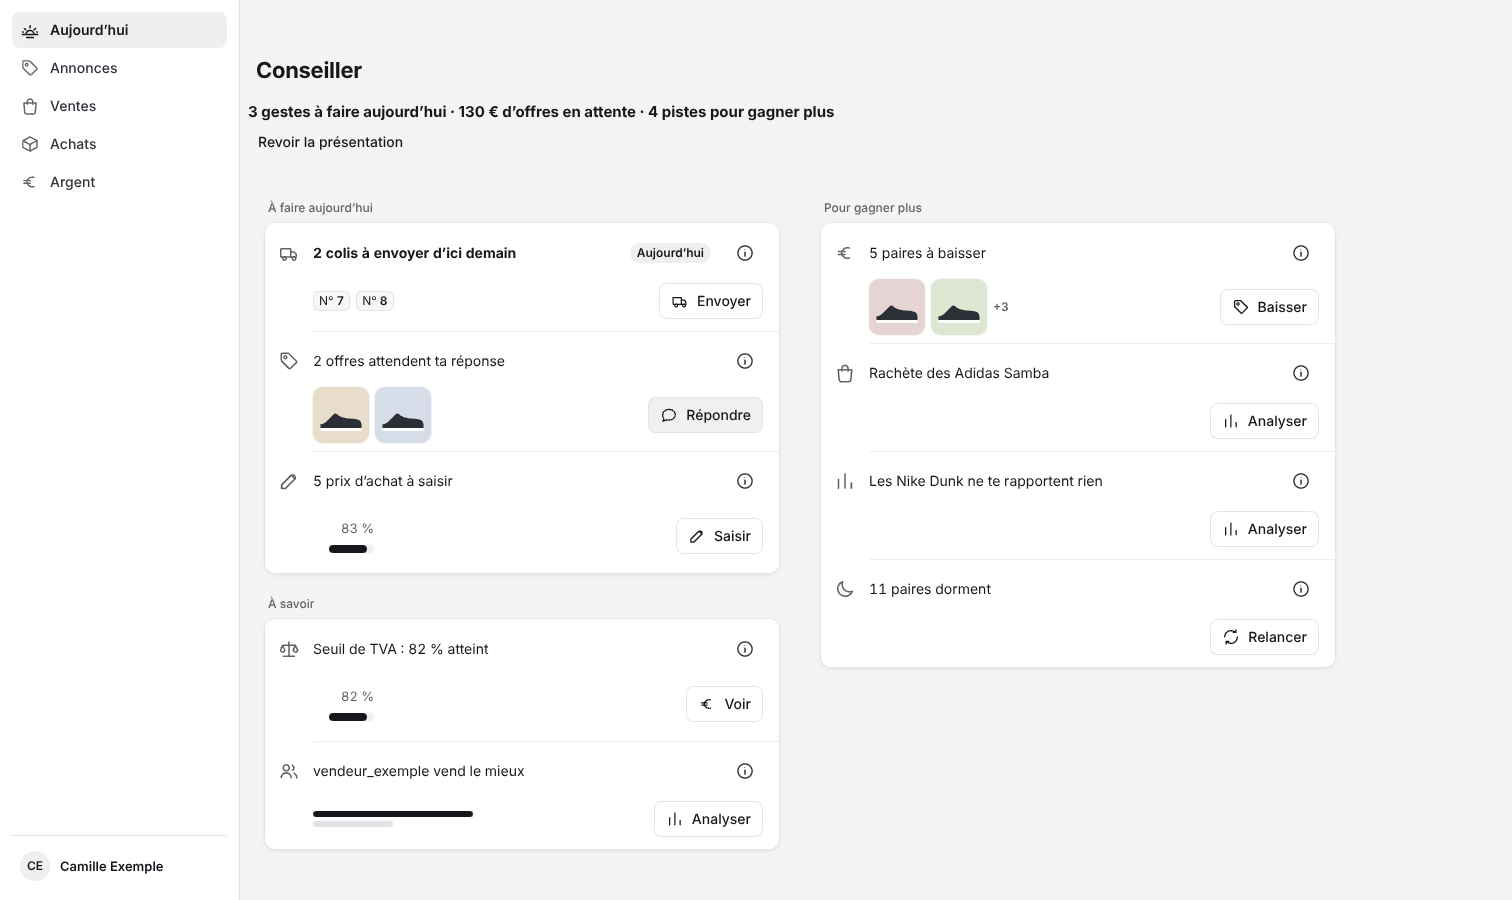
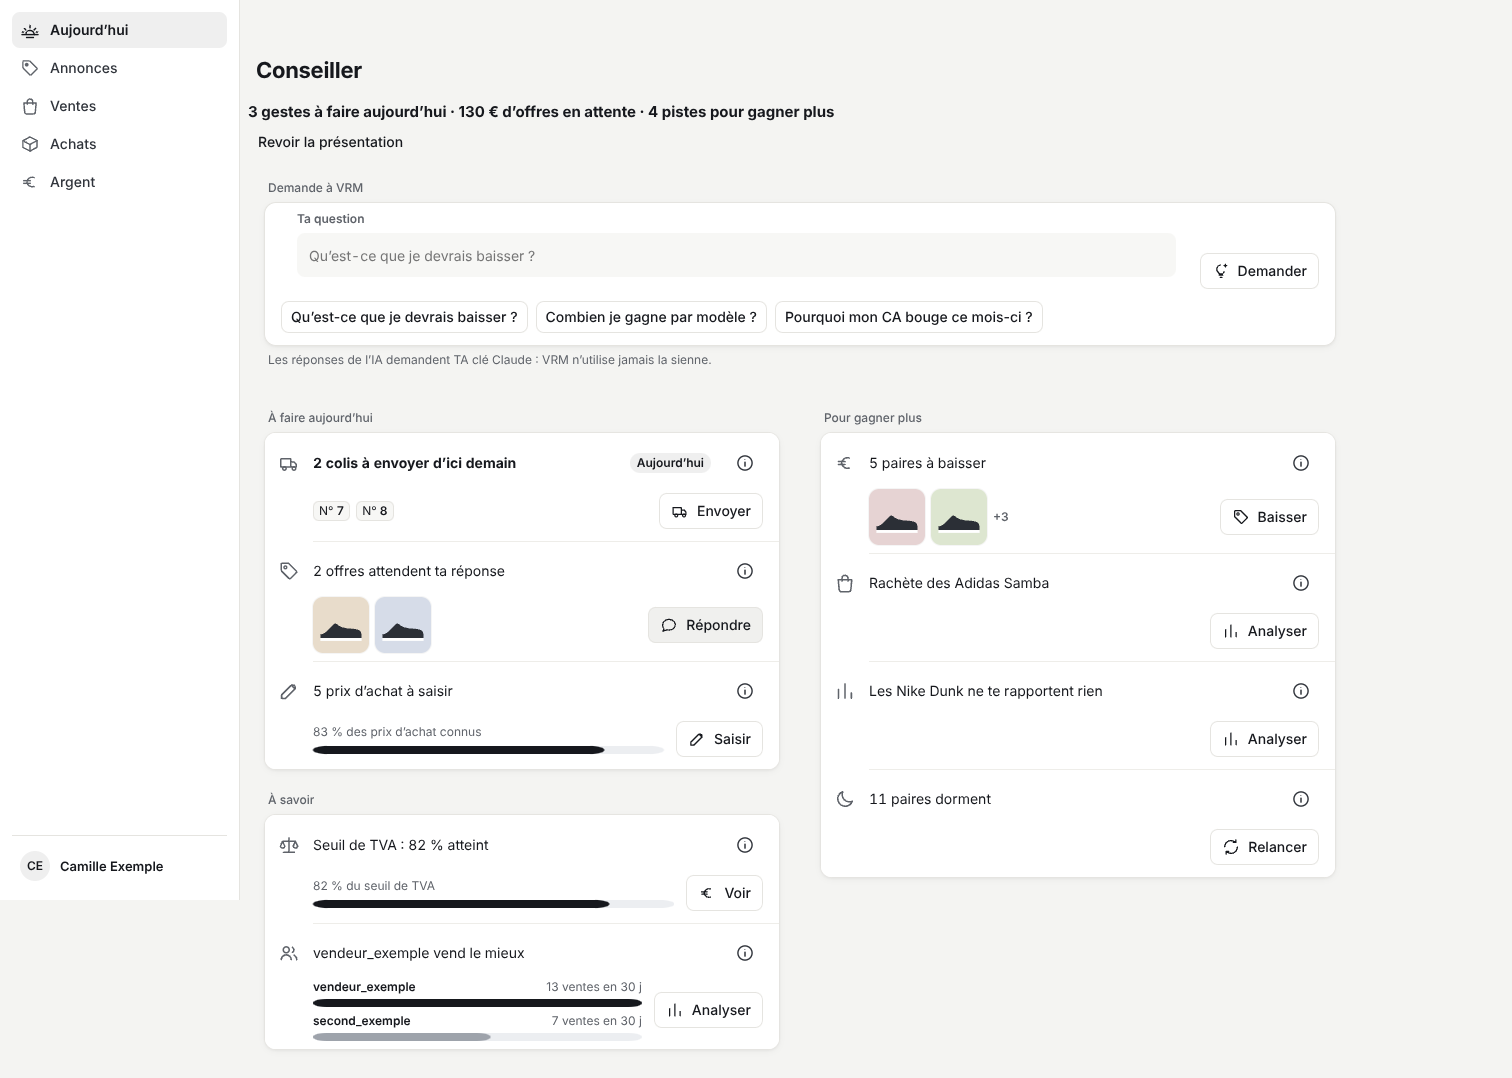
Conseiller : captures APRÈS refaites (jauges), récit K12
Claude-Session: https://claude.ai/code/session_01L9qoLMVoXh8UiDqmdmGtdw

diff --git a/docs/passation/2026-11-23-conseiller.md b/docs/passation/2026-11-23-conseiller.md
@@ -130,3 +130,14 @@ captures avant / après (`docs/design/avant-apres/conseiller-{avant,apres}.png`)
 - CI : `comptes-et-reception` rouge sur la PR ET sur le dernier commit de main (même pas : `audit-parcours-production`) ;
   le reste en file d'attente (CI saturée). Fusion : pas avant le 24 nov. 07:00 UTC (consigne du coordinateur).
 - Captures : `docs/design/avant-apres/conseiller-{390,1512}-{avant,apres}.png`, `conseiller-presentation.png`.
+
+## Jauges (retour du coordinateur, 23 nov. soir)
+- Défaut vu sur `conseiller-1512-apres.png` : barres « 83 % » / « 82 % » remplies à ~15 % sur une piste de ~45 px. Cause :
+  la `Progression` native (paliers `data-n-h`) posée dans une case étroite. Remplacée par une jauge SVG (viewBox 0–100 : la
+  largeur du plein EST le pourcentage), sur toute la largeur utile, légendée : « 83 % des prix d'achat connus », « 82 % du
+  seuil de TVA » (micro, TVA majorée selon le seuil). Comptes : deux barres légendées (compte · N ventes en 30 j) ; au
+  téléphone elles prennent la ligne entière.
+- Banc **K12** : plein ≈ pourcentage ± 3 %, piste ≥ 40 % de la rangée, libellé qui dit le nombre et ce qu'il mesure ; deux
+  barres légendées pour les comptes. **Rouge sur le code d'avant** (K12 × 2 sur l'arbre `git archive` avant le correctif),
+  **vert après** (banc complet 142 verts), mutation `jauge` (plein ÷ 6) **rouge**.
+- Au passage : `audit-traduction` (clé de seuil écrite en clair ; la présentation n'emprunte plus une clé de la tranche 2).
